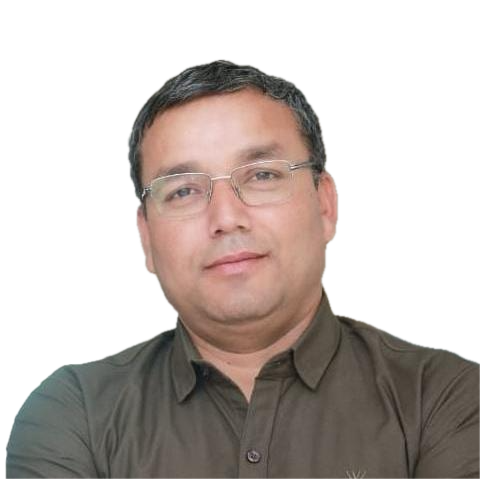
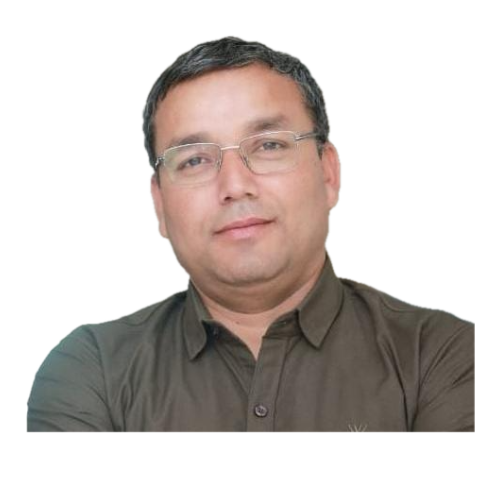
Add all nine trustees with portrait photos

diff --git a/site/about.html b/site/about.html
@@ -177,7 +177,7 @@
       <div style="max-width: 1128px; margin: 0 auto">
         <ul data-track class="track" style="display: flex; gap: 16px; overflow-x: auto; scroll-snap-type: x mandatory; padding-top: 4px; padding-bottom: 24px; scroll-padding-left: 24px; list-style: none; margin: 0">
           <li style="flex: 0 0 260px; scroll-snap-align: start; min-height: 200px; padding: 28px; border-radius: 24px; background: var(--card); box-shadow: var(--shadow); display: flex; flex-direction: column; gap: 12px">
-            <span aria-hidden="true" style="flex: none; display: inline-flex; align-items: center; justify-content: center; width: 52px; height: 52px; border-radius: 999px; background: var(--tint-fill); color: var(--tint); font-weight: 700; font-size: 18px">KS</span>
+            <img src="images/trustee-shamungou.png" alt="" loading="lazy" style="flex: none; display: inline-flex; align-items: center; justify-content: center; width: 72px; height: 72px; border-radius: 999px; object-fit: cover; background: var(--tint-fill)">
             <div>
               <h3 style="margin: 0; font-size: 19px; line-height: 1.3; font-weight: 600">Dr Khangembam Shamungou</h3>
               <p style="margin: 2px 0 0; font-size: 15px; color: var(--tint); font-weight: 500">President · Managing Trustee</p>
@@ -185,7 +185,7 @@
             </div>
           </li>
           <li style="flex: 0 0 260px; scroll-snap-align: start; min-height: 200px; padding: 28px; border-radius: 24px; background: var(--card); box-shadow: var(--shadow); display: flex; flex-direction: column; gap: 12px">
-            <span aria-hidden="true" style="flex: none; display: inline-flex; align-items: center; justify-content: center; width: 52px; height: 52px; border-radius: 999px; background: var(--tint-fill); color: var(--tint); font-weight: 700; font-size: 18px">KJ</span>
+            <img src="images/trustee-jugeshor.png" alt="" loading="lazy" style="flex: none; display: inline-flex; align-items: center; justify-content: center; width: 72px; height: 72px; border-radius: 999px; object-fit: cover; background: var(--tint-fill)">
             <div>
               <h3 style="margin: 0; font-size: 19px; line-height: 1.3; font-weight: 600">Kumam Jugeshor</h3>
               <p style="margin: 2px 0 0; font-size: 15px; color: var(--tint); font-weight: 500">Vice-President</p>
@@ -193,23 +193,15 @@
             </div>
           </li>
           <li style="flex: 0 0 260px; scroll-snap-align: start; min-height: 200px; padding: 28px; border-radius: 24px; background: var(--card); box-shadow: var(--shadow); display: flex; flex-direction: column; gap: 12px">
-            <span aria-hidden="true" style="flex: none; display: inline-flex; align-items: center; justify-content: center; width: 52px; height: 52px; border-radius: 999px; background: var(--tint-fill); color: var(--tint); font-weight: 700; font-size: 18px">SP</span>
+            <img src="images/trustee-budhi.png" alt="" loading="lazy" style="flex: none; display: inline-flex; align-items: center; justify-content: center; width: 72px; height: 72px; border-radius: 999px; object-fit: cover; background: var(--tint-fill)">
             <div>
-              <h3 style="margin: 0; font-size: 19px; line-height: 1.3; font-weight: 600">Salam Prasanta</h3>
+              <h3 style="margin: 0; font-size: 19px; line-height: 1.3; font-weight: 600">Tongbram Budhi</h3>
               <p style="margin: 2px 0 0; font-size: 15px; color: var(--tint); font-weight: 500">Trustee</p>
-              <p style="margin: 8px 0 0; font-size: 15px; color: var(--label3)">Founder.</p>
+              
             </div>
           </li>
           <li style="flex: 0 0 260px; scroll-snap-align: start; min-height: 200px; padding: 28px; border-radius: 24px; background: var(--card); box-shadow: var(--shadow); display: flex; flex-direction: column; gap: 12px">
-            <img src="images/trustee-budha.png" alt="" loading="lazy" style="flex: none; display: inline-flex; align-items: center; justify-content: center; width: 52px; height: 52px; border-radius: 999px; object-fit: cover; object-position: center 30%; background: var(--tint-fill)">
-            <div>
-              <h3 style="margin: 0; font-size: 19px; line-height: 1.3; font-weight: 600">Khwairakpam Budha</h3>
-              <p style="margin: 2px 0 0; font-size: 15px; color: var(--tint); font-weight: 500">Trustee</p>
-              <p style="margin: 8px 0 0; font-size: 15px; color: var(--label3)">Founder.</p>
-            </div>
-          </li>
-          <li style="flex: 0 0 260px; scroll-snap-align: start; min-height: 200px; padding: 28px; border-radius: 24px; background: var(--card); box-shadow: var(--shadow); display: flex; flex-direction: column; gap: 12px">
-            <span aria-hidden="true" style="flex: none; display: inline-flex; align-items: center; justify-content: center; width: 52px; height: 52px; border-radius: 999px; background: var(--tint-fill); color: var(--tint); font-weight: 700; font-size: 18px">EP</span>
+            <img src="images/trustee-premjit.png" alt="" loading="lazy" style="flex: none; display: inline-flex; align-items: center; justify-content: center; width: 72px; height: 72px; border-radius: 999px; object-fit: cover; background: var(--tint-fill)">
             <div>
               <h3 style="margin: 0; font-size: 19px; line-height: 1.3; font-weight: 600">Elangbam Premjit</h3>
               <p style="margin: 2px 0 0; font-size: 15px; color: var(--tint); font-weight: 500">Trustee</p>
@@ -217,7 +209,23 @@
             </div>
           </li>
           <li style="flex: 0 0 260px; scroll-snap-align: start; min-height: 200px; padding: 28px; border-radius: 24px; background: var(--card); box-shadow: var(--shadow); display: flex; flex-direction: column; gap: 12px">
-            <span aria-hidden="true" style="flex: none; display: inline-flex; align-items: center; justify-content: center; width: 52px; height: 52px; border-radius: 999px; background: var(--tint-fill); color: var(--tint); font-weight: 700; font-size: 18px">SB</span>
+            <img src="images/trustee-budha.png" alt="" loading="lazy" style="flex: none; display: inline-flex; align-items: center; justify-content: center; width: 72px; height: 72px; border-radius: 999px; object-fit: cover; background: var(--tint-fill)">
+            <div>
+              <h3 style="margin: 0; font-size: 19px; line-height: 1.3; font-weight: 600">Khwairakpam Budha</h3>
+              <p style="margin: 2px 0 0; font-size: 15px; color: var(--tint); font-weight: 500">Trustee</p>
+              <p style="margin: 8px 0 0; font-size: 15px; color: var(--label3)">Founder.</p>
+            </div>
+          </li>
+          <li style="flex: 0 0 260px; scroll-snap-align: start; min-height: 200px; padding: 28px; border-radius: 24px; background: var(--card); box-shadow: var(--shadow); display: flex; flex-direction: column; gap: 12px">
+            <img src="images/trustee-ajitkumar.png" alt="" loading="lazy" style="flex: none; display: inline-flex; align-items: center; justify-content: center; width: 72px; height: 72px; border-radius: 999px; object-fit: cover; background: var(--tint-fill)">
+            <div>
+              <h3 style="margin: 0; font-size: 19px; line-height: 1.3; font-weight: 600">Khangembam Ajitkumar</h3>
+              <p style="margin: 2px 0 0; font-size: 15px; color: var(--tint); font-weight: 500">Trustee</p>
+              
+            </div>
+          </li>
+          <li style="flex: 0 0 260px; scroll-snap-align: start; min-height: 200px; padding: 28px; border-radius: 24px; background: var(--card); box-shadow: var(--shadow); display: flex; flex-direction: column; gap: 12px">
+            <img src="images/trustee-brajakumar.png" alt="" loading="lazy" style="flex: none; display: inline-flex; align-items: center; justify-content: center; width: 72px; height: 72px; border-radius: 999px; object-fit: cover; background: var(--tint-fill)">
             <div>
               <h3 style="margin: 0; font-size: 19px; line-height: 1.3; font-weight: 600">Salam Brajakumar</h3>
               <p style="margin: 2px 0 0; font-size: 15px; color: var(--tint); font-weight: 500">Trustee</p>
@@ -225,9 +233,17 @@
             </div>
           </li>
           <li style="flex: 0 0 260px; scroll-snap-align: start; min-height: 200px; padding: 28px; border-radius: 24px; background: var(--card); box-shadow: var(--shadow); display: flex; flex-direction: column; gap: 12px">
-            <span aria-hidden="true" style="flex: none; display: inline-flex; align-items: center; justify-content: center; width: 52px; height: 52px; border-radius: 999px; background: var(--tint-fill); color: var(--tint); font-weight: 700; font-size: 18px">TB</span>
+            <img src="images/trustee-prasanta.png" alt="" loading="lazy" style="flex: none; display: inline-flex; align-items: center; justify-content: center; width: 72px; height: 72px; border-radius: 999px; object-fit: cover; background: var(--tint-fill)">
             <div>
-              <h3 style="margin: 0; font-size: 19px; line-height: 1.3; font-weight: 600">Tongbram Budhi</h3>
+              <h3 style="margin: 0; font-size: 19px; line-height: 1.3; font-weight: 600">Salam Prasanta</h3>
+              <p style="margin: 2px 0 0; font-size: 15px; color: var(--tint); font-weight: 500">Trustee</p>
+              <p style="margin: 8px 0 0; font-size: 15px; color: var(--label3)">Founder.</p>
+            </div>
+          </li>
+          <li style="flex: 0 0 260px; scroll-snap-align: start; min-height: 200px; padding: 28px; border-radius: 24px; background: var(--card); box-shadow: var(--shadow); display: flex; flex-direction: column; gap: 12px">
+            <img src="images/trustee-telheiba.png" alt="" loading="lazy" style="flex: none; display: inline-flex; align-items: center; justify-content: center; width: 72px; height: 72px; border-radius: 999px; object-fit: cover; background: var(--tint-fill)">
+            <div>
+              <h3 style="margin: 0; font-size: 19px; line-height: 1.3; font-weight: 600">Telheiba Kumam</h3>
               <p style="margin: 2px 0 0; font-size: 15px; color: var(--tint); font-weight: 500">Trustee</p>
               
             </div>

diff --git a/source/build_site.py b/source/build_site.py
@@ -734,14 +734,16 @@ work_body = f'''    <section style="max-width: 1080px; margin: 0 auto; padding: 
     </section>'''
 
 # ---------------------------------------------------------------- ABOUT
-trustees = [
+trustees = [  # order as in the trust deed
     ('Dr Khangembam Shamungou', 'President · Managing Trustee', 'Founder. Author of 23 books on nature and the Sangai.'),
     ('Kumam Jugeshor', 'Vice-President', 'Founder. Ornithologist and retired Principal of Kumbi College.'),
-    ('Salam Prasanta', 'Trustee', 'Founder.'),
-    ('Khwairakpam Budha', 'Trustee', 'Founder.'),
-    ('Elangbam Premjit', 'Trustee', ''),
-    ('Salam Brajakumar', 'Trustee', ''),
     ('Tongbram Budhi', 'Trustee', ''),
+    ('Elangbam Premjit', 'Trustee', ''),
+    ('Khwairakpam Budha', 'Trustee', 'Founder.'),
+    ('Khangembam Ajitkumar', 'Trustee', ''),
+    ('Salam Brajakumar', 'Trustee', ''),
+    ('Salam Prasanta', 'Trustee', 'Founder.'),
+    ('Telheiba Kumam', 'Trustee', ''),
 ]
 story = [
     ('1954', 'A sanctuary is born', 'On 10 December, the Manipur Board for Wildlife, chaired by V.S. Sundram, resolved to create a 50 km² sanctuary for the Sangai.'),
@@ -757,15 +759,24 @@ stats = [('1,054', 'students reached across 11 schools in 2025'), ('586', 'stude
 
 
 # Trustee portraits (add more as the Foundation sends them); others show initials.
+# Background removed and cropped to head and shoulders (originals: iCloud "Sangai First/Passport").
 TRUSTEE_PHOTOS = {
-    'Khwairakpam Budha': IMG + 'trustee-budha.png',  # background removed; original in reference/
+    'Dr Khangembam Shamungou': IMG + 'trustee-shamungou.png',
+    'Kumam Jugeshor': IMG + 'trustee-jugeshor.png',
+    'Tongbram Budhi': IMG + 'trustee-budhi.png',
+    'Elangbam Premjit': IMG + 'trustee-premjit.png',
+    'Khwairakpam Budha': IMG + 'trustee-budha.png',
+    'Khangembam Ajitkumar': IMG + 'trustee-ajitkumar.png',
+    'Salam Brajakumar': IMG + 'trustee-brajakumar.png',
+    'Salam Prasanta': IMG + 'trustee-prasanta.png',
+    'Telheiba Kumam': IMG + 'trustee-telheiba.png',
 }
 
 
 def avatar(name):
-    style = 'flex: none; display: inline-flex; align-items: center; justify-content: center; width: 52px; height: 52px; border-radius: 999px'
+    style = 'flex: none; display: inline-flex; align-items: center; justify-content: center; width: 72px; height: 72px; border-radius: 999px'
     if name in TRUSTEE_PHOTOS:
-        return f'<img src="{TRUSTEE_PHOTOS[name]}" alt="" loading="lazy" style="{style}; object-fit: cover; object-position: center 30%; background: var(--tint-fill)">'
+        return f'<img src="{TRUSTEE_PHOTOS[name]}" alt="" loading="lazy" style="{style}; object-fit: cover; background: var(--tint-fill)">'
     return f'<span aria-hidden="true" style="{style}; background: var(--tint-fill); color: var(--tint); font-weight: 700; font-size: 18px">{initials(name)}</span>'
 
 
